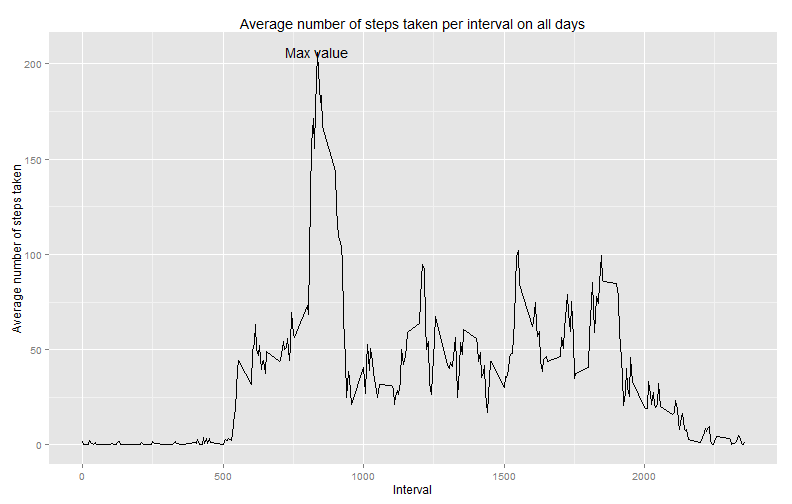
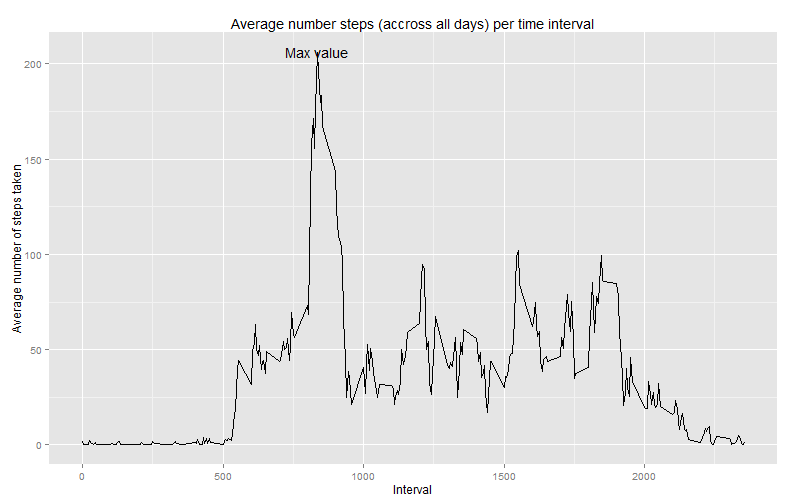
final commit

Changed region(s): [[0.2727, 0.0298, 0.7576, 0.0595]]

diff --git a/PA1_template.html b/PA1_template.html
@@ -181,11 +181,18 @@ hljs.initHighlightingOnLoad();
 <body>
 <h1>Reproducible Research: Peer Assessment 1</h1>
 
-<p>This analysis makes use of data from a personal activity monitoring device.
-This device collects data at 5 minute intervals through out the day. The data
-consists of two months of data from an anonymous individual collected during
-the months of October and November, 2012 and include the number of steps
-taken in 5 minute intervals each day.</p>
+<p><strong>Background:</strong> This analysis makes use of data from a personal activity monitoring device.This device collects data at 5 minute intervals through out the day. The data consists of two months of data from an anonymous individual collected during the months of October and November, 2012 and include the number of steps taken in 5 minute intervals each day.</p>
+
+<hr/>
+
+<p><strong>Overview:</strong> The following document provides insight on:<br/>
+1. Loading and preprocessing the data: Where the data is loaded, cleaned and made ready to analyze.<br/>
+2. What is mean total number of steps taken per day?<br/>
+3. What is the average daily activity pattern?<br/>
+4. Strategy to handle missing values<br/>
+5. Are there differences in activity patterns between weekdays and weekends?  </p>
+
+<hr/>
 
 <h2>Loading and preprocessing the data</h2>
 
@@ -201,7 +208,7 @@ unzip(zipFile)
 activityData &lt;- read.csv(&quot;activity.csv&quot;)
 </code></pre>
 
-<p>Let&#39;s analyze the imported activityData fata.frame</p>
+<p>Let&#39;s analyze the imported activityData data.frame</p>
 
 <pre><code class="r">print(str(activityData))
 </code></pre>
@@ -214,8 +221,8 @@ activityData &lt;- read.csv(&quot;activity.csv&quot;)
 </code></pre>
 
 <p>After loading the dataset, it is apparent that the $date variable is of class
-&ldquo;factor&rdquo;. Hence, the following steps will convert it to type &ldquo;date&rdquo;.
-Note: Missing values coded as &#39;NA&#39; are not handelled here and will be handelled in subsequent steps.</p>
+&ldquo;factor&rdquo;. Hence, the subsequent steps will convert it to a &ldquo;date&rdquo; type.<br/>
+<strong>Note:</strong> Missing values coded as &#39;NA&#39; are not handelled here and will be handelled in subsequent steps.</p>
 
 <pre><code class="r">activityData$date &lt;-as.Date(activityData$date)
 print(str(activityData))
@@ -228,11 +235,13 @@ print(str(activityData))
 ## NULL
 </code></pre>
 
-<p>Now we have a clean data set to work with.</p>
+<p>Now, we have a clean data set to work with.</p>
+
+<hr/>
 
 <h2>What is mean total number of steps taken per day?</h2>
 
-<p>Plotting the total steps taken each day</p>
+<p>Plotting the total steps taken per day</p>
 
 <pre><code class="r">activityData2 &lt;-ddply(activityData, ~date , summarize, 
                       sum_steps = sum(steps),
@@ -315,7 +324,11 @@ print(g)
 ## 61 2012-11-30        NA         NA           NA
 </code></pre>
 
+<hr/>
+
 <h2>What is the average daily activity pattern?</h2>
+
+<p>Plotting the average number steps (accross all days) per time interval</p>
 
 <pre><code class="r">activityData3 &lt;-ddply(activityData, ~interval , summarize, 
                      mean_steps = mean(steps, na.rm = TRUE))
@@ -325,13 +338,18 @@ g &lt;- ggplot(activityData3, aes(x = interval, y = mean_steps))
 g &lt;- g + geom_line()
 labelValue &lt;- &quot;Max value&quot;
 g &lt;- g + annotate(&quot;text&quot;, x=xMax, y=yMax, label=labelValue)
-g &lt;- g + xlab(&quot;Interval&quot;) + ylab(&quot;Average number of steps taken&quot;) + labs(title = &quot;Average number of steps taken per interval on all days&quot;)
+g &lt;- g + xlab(&quot;Interval&quot;) + ylab(&quot;Average number of steps taken&quot;) + labs(title = &quot;Average number steps (accross all days) per time interval&quot;)
 print(g)
 </code></pre>
 
[2 lines of base64/hex data omitted]
 
-<p>Hence the maximum value occured at interval 835 and had the value of 206.169811320755. This is illustrated in the above graph with the annotation &#39;Max value&#39; </p>
+<blockquote>
+<p>Hence, the maximum value occured at interval 835 and has the value of 206.169811320755. This is illustrated in the above graph with the annotation &#39;Max value&#39; 
+</br></p>
+
+<hr/>
+</blockquote>
 
 <h2>Imputing missing values</h2>
 
@@ -352,7 +370,9 @@ print(g)
 ##  NA&#39;s   :2304
 </code></pre>
 
-<p>from this we see that NA&#39;s only exist in the $steps variable and that there are 2304 of them which constitues for 13.1148 %.</p>
+<p>From this we see that NA&#39;s only exist in the $steps variable and that there are 2304 of them which constitues for 13.1148 %.</p>
+
+<p>Since, the total number of missing values are not that significant, let us use the mean of the 5 minute interval to replace the missing value. In this way, there is no impact to the overall statistics.</p>
 
 <pre><code class="r">tidyData&lt;- activityData
 tidyData[is.na(tidyData[, 1]), 1] &lt;- with(tidyData, tapply(steps, interval, mean, na.rm = TRUE))
@@ -371,7 +391,7 @@ summary(tidyData)
 
 <p>As you can see above all the 2304 NA&#39;s are gone, but the summary statistics of the data set are still the same.</p>
 
-<h3>Analyzing the tidyData</h3>
+<h3>Analyzing the tidy data set</h3>
 
 <p>Plotting the total steps taken each day with the tidyData</p>
 
@@ -524,6 +544,13 @@ print(mrg[,c(1,3,6)])
 ## 61 2012-11-30                NA             34.11
 </code></pre>
 
+<blockquote>
+<p>Hence, as designed, the added data does not affect the overall statistics of the data set, however, the mean/median for perticular days are affected.
+<br/></p>
+</blockquote>
+
+<hr/>
+
 <h2>Are there differences in activity patterns between weekdays and weekends?</h2>
 
 <pre><code class="r">tidyData3&lt;- tidyData
@@ -531,7 +558,7 @@ print(mrg[,c(1,3,6)])
 tidyData3$DayType &lt;- ifelse(!(weekdays(tidyData3$date) %in% c(&#39;Saturday&#39;,&#39;Sunday&#39;)), &quot;Weekday&quot;, &quot;Weekend&quot;)
 </code></pre>
 
-<p>A panel plot containing a time series plot of the 5-minute interval (x-axis) and the average number of steps taken, averaged across all weekday days or weekend days (y-axis).</p>
+<p>Displayed below is a panel plot containing a time series plot of the 5-minute interval (x-axis) and the average number of steps taken, averaged across all weekday days or weekend days (y-axis).</p>
 
 <pre><code class="r">tidyData4 &lt;-ddply(tidyData3, ~interval+DayType , summarize, 
                      mean_steps = mean(steps, na.rm = TRUE))
@@ -543,6 +570,26 @@ print(g)
 </code></pre>
 
[1 lines of base64/hex data omitted]
+
+<p>Let&#39;s analyze the difference between weekends and weekdays</p>
+
+<pre><code class="r">tidyData4 &lt;-ddply(tidyData3, ~interval+DayType , summarize, 
+                     mean_steps = mean(steps, na.rm = TRUE))
+g &lt;- ggplot(tidyData4, aes(x = interval, y = mean_steps))
+g &lt;- g + stat_summary(aes(colour=&quot;Difference&quot;,shape=&quot;difference&quot;,group=1), fun.y=diff, geom=&quot;line&quot;, size=1)
+g &lt;- g + theme(legend.position=&quot;bottom&quot;)
+g &lt;- g + xlab(&quot;Interval&quot;) + ylab(&quot;Differnece (Weekend - Weekday)&quot;) + labs(title = &quot;Differnece between the average number of steps on Weekend and Weekday&quot;)
+print(g)
+</code></pre>
+
[1 lines of base64/hex data omitted]
+
+<blockquote>
+<p>From the plot above we see that the average number of steps on weekdays is greater for intervals less than 1000 and greater than 500. In contrast, on weekends the average number of steps taken is greater for interverals greater than 1000.
+</br></p>
+
+<hr/>
+</blockquote>
 
 <p>EOF</p>
 

diff --git a/PA1_template.md b/PA1_template.md
@@ -1,10 +1,16 @@
-Reproducible Research: Peer Assessment 1
-========================================================
-This analysis makes use of data from a personal activity monitoring device.
-This device collects data at 5 minute intervals through out the day. The data
-consists of two months of data from an anonymous individual collected during
-the months of October and November, 2012 and include the number of steps
-taken in 5 minute intervals each day.
+# Reproducible Research: Peer Assessment 1
+
+
+**Background:** This analysis makes use of data from a personal activity monitoring device.This device collects data at 5 minute intervals through out the day. The data consists of two months of data from an anonymous individual collected during the months of October and November, 2012 and include the number of steps taken in 5 minute intervals each day.
+*****
+
+**Overview:** The following document provides insight on:  
+1. Loading and preprocessing the data: Where the data is loaded, cleaned and made ready to analyze.   
+2. What is mean total number of steps taken per day?   
+3. What is the average daily activity pattern?   
+4. Strategy to handle missing values   
+5. Are there differences in activity patterns between weekdays and weekends?  
+*****
 
 
 
@@ -22,7 +28,7 @@ unzip(zipFile)
 activityData <- read.csv("activity.csv")
 ```
 
-Let's analyze the imported activityData fata.frame
+Let's analyze the imported activityData data.frame
 
 ```r
 print(str(activityData))
@@ -37,8 +43,8 @@ print(str(activityData))
 ```
 
 After loading the dataset, it is apparent that the $date variable is of class
-"factor". Hence, the following steps will convert it to type "date".
-Note: Missing values coded as 'NA' are not handelled here and will be handelled in subsequent steps.
+"factor". Hence, the subsequent steps will convert it to a "date" type.  
+**Note:** Missing values coded as 'NA' are not handelled here and will be handelled in subsequent steps.
 
 ```r
 activityData$date <-as.Date(activityData$date)
@@ -52,12 +58,12 @@ print(str(activityData))
 ##  $ interval: int  0 5 10 15 20 25 30 35 40 45 ...
 ## NULL
 ```
-
-Now we have a clean data set to work with.
+Now, we have a clean data set to work with.
+*****
 
 ## What is mean total number of steps taken per day?
 
-Plotting the total steps taken each day
+Plotting the total steps taken per day
 
 ```r
 activityData2 <-ddply(activityData, ~date , summarize, 
@@ -142,10 +148,11 @@ print(activityData2)
 ## 60 2012-11-29      7047    24.4688            0
 ## 61 2012-11-30        NA         NA           NA
 ```
-
+*****
 
 ## What is the average daily activity pattern?
 
+Plotting the average number steps (accross all days) per time interval
 
 ```r
 activityData3 <-ddply(activityData, ~interval , summarize, 
@@ -156,13 +163,15 @@ g <- ggplot(activityData3, aes(x = interval, y = mean_steps))
 g <- g + geom_line()
 labelValue <- "Max value"
 g <- g + annotate("text", x=xMax, y=yMax, label=labelValue)
-g <- g + xlab("Interval") + ylab("Average number of steps taken") + labs(title = "Average number of steps taken per interval on all days")
+g <- g + xlab("Interval") + ylab("Average number of steps taken") + labs(title = "Average number steps (accross all days) per time interval")
 print(g)
 ```
 
 ![plot of chunk AverageStepsGraph](figure/AverageStepsGraph.png) 
 
-Hence the maximum value occured at interval 835 and had the value of 206.169811320755. This is illustrated in the above graph with the annotation 'Max value' 
+>Hence, the maximum value occured at interval 835 and has the value of 206.169811320755. This is illustrated in the above graph with the annotation 'Max value' 
+</br>
+*****
 
 ## Imputing missing values
 
@@ -186,8 +195,9 @@ summary(activityData)
 
 
 
-from this we see that NA's only exist in the $steps variable and that there are 2304 of them which constitues for 13.1148 %.
+From this we see that NA's only exist in the $steps variable and that there are 2304 of them which constitues for 13.1148 %.
 
+Since, the total number of missing values are not that significant, let us use the mean of the 5 minute interval to replace the missing value. In this way, there is no impact to the overall statistics.
 
 ```r
 tidyData<- activityData
@@ -205,9 +215,11 @@ summary(tidyData)
 ##  3rd Qu.: 27.0   3rd Qu.:2012-11-15   3rd Qu.:1766  
 ##  Max.   :806.0   Max.   :2012-11-30   Max.   :2355
 ```
+
 As you can see above all the 2304 NA's are gone, but the summary statistics of the data set are still the same.
 
-### Analyzing the tidyData 
+### Analyzing the tidy data set 
+
 Plotting the total steps taken each day with the tidyData
 
 ```r
@@ -363,6 +375,10 @@ print(mrg[,c(1,4,7)])
 ## 60 2012-11-29                 0              0.00
 ## 61 2012-11-30                NA             34.11
 ```
+>Hence, as designed, the added data does not affect the overall statistics of the data set, however, the mean/median for perticular days are affected.
+<br/>
+
+*****
 
 ## Are there differences in activity patterns between weekdays and weekends?
 
@@ -372,8 +388,7 @@ tidyData3<- tidyData
 tidyData3$DayType <- ifelse(!(weekdays(tidyData3$date) %in% c('Saturday','Sunday')), "Weekday", "Weekend")
 ```
 
-A panel plot containing a time series plot of the 5-minute interval (x-axis) and the average number of steps taken, averaged across all weekday days or weekend days (y-axis).
-
+Displayed below is a panel plot containing a time series plot of the 5-minute interval (x-axis) and the average number of steps taken, averaged across all weekday days or weekend days (y-axis).
 
 ```r
 tidyData4 <-ddply(tidyData3, ~interval+DayType , summarize, 
@@ -386,5 +401,23 @@ print(g)
 ```
 
 ![plot of chunk DayTypePlot](figure/DayTypePlot.png) 
+
+Let's analyze the difference between weekends and weekdays
+
+```r
+tidyData4 <-ddply(tidyData3, ~interval+DayType , summarize, 
+                     mean_steps = mean(steps, na.rm = TRUE))
+g <- ggplot(tidyData4, aes(x = interval, y = mean_steps))
+g <- g + stat_summary(aes(colour="Difference",shape="difference",group=1), fun.y=diff, geom="line", size=1)
+g <- g + theme(legend.position="bottom")
+g <- g + xlab("Interval") + ylab("Differnece (Weekend - Weekday)") + labs(title = "Differnece between the average number of steps on Weekend and Weekday")
+print(g)
+```
+
+![plot of chunk DeltaByDayTypePlot](figure/DeltaByDayTypePlot.png) 
+
+> From the plot above we see that the average number of steps on weekdays is greater for intervals less than 1000 and greater than 500. In contrast, on weekends the average number of steps taken is greater for interverals greater than 1000.
+</br>
+*****
 
 EOF
